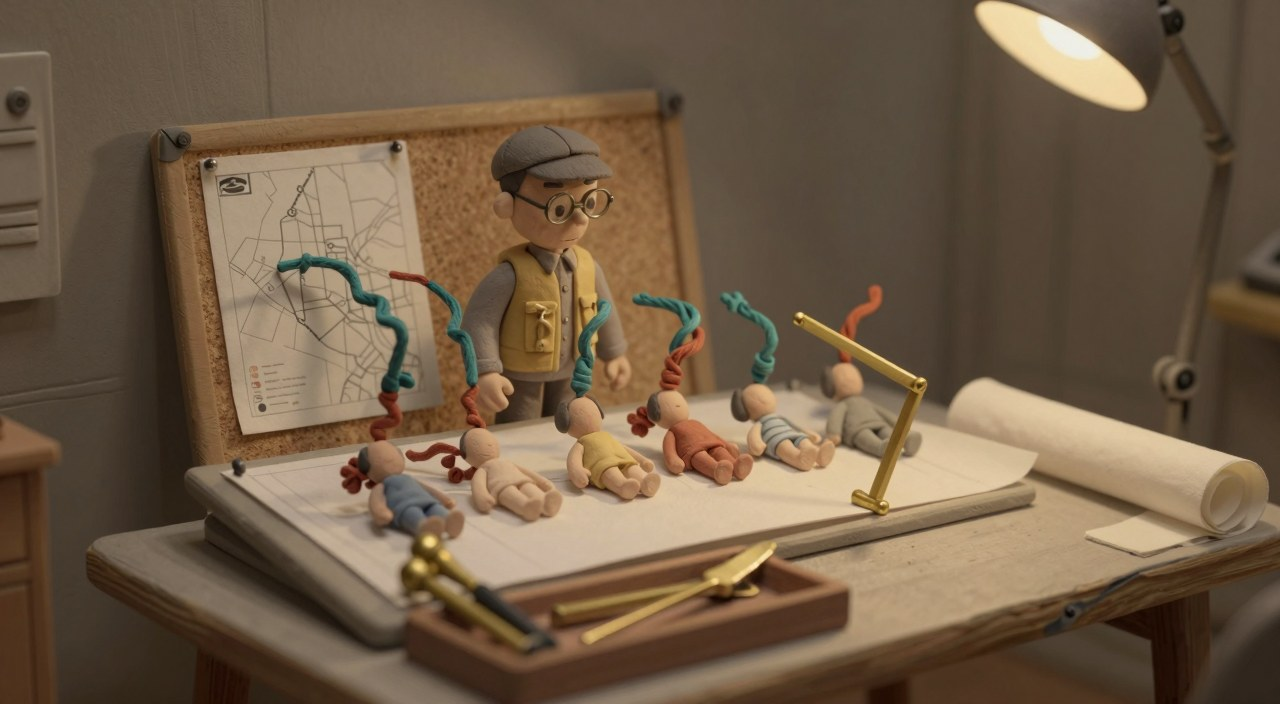
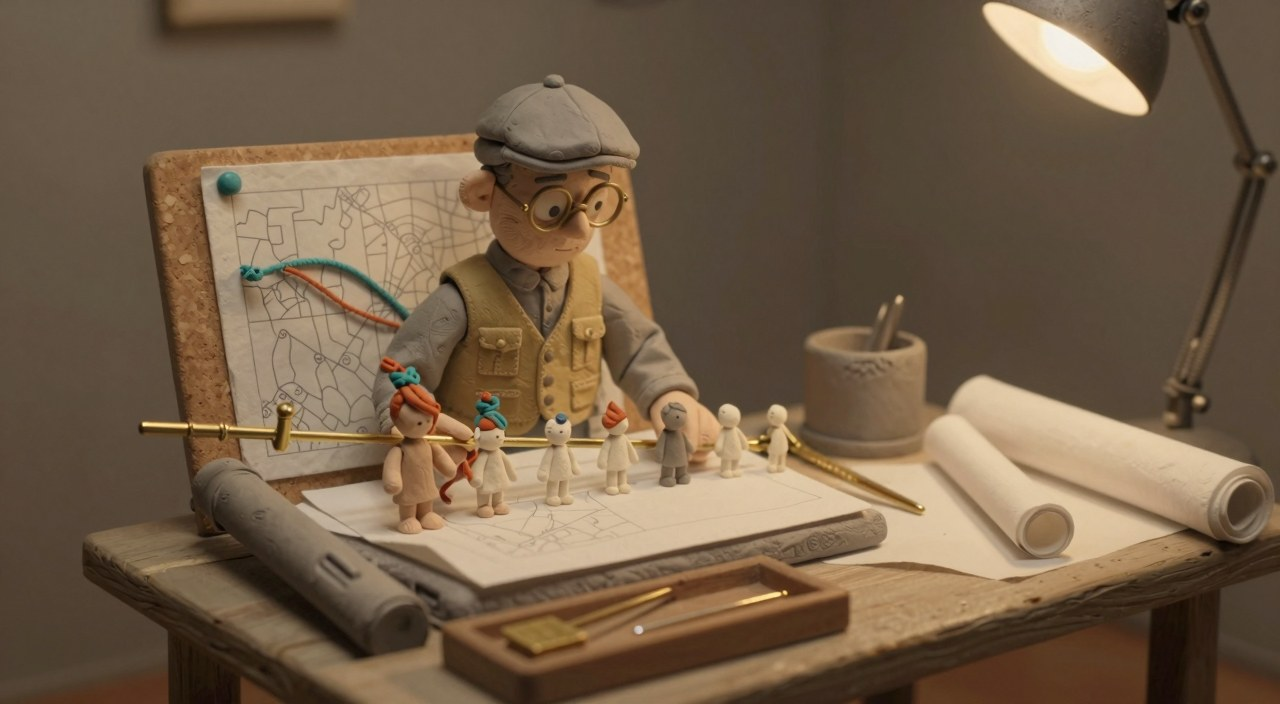
Tutorial: open on the claim and the assumptions; new still for section 05
Hero and section 01 now lead with the practitioner's choice: the same
survival data supports two claims (one hazard ratio, or survival
differences over time) and each carries its own assumptions. Section 05
swaps in the frame where the surveyor stands behind the table with one
rule laid along a row of patients.

Claude-Session: https://claude.ai/code/session_01A616zUAA53FNpEE2yGYwA5

diff --git a/docs/tutorial/index.html b/docs/tutorial/index.html
@@ -3,7 +3,7 @@
 <head>
   <meta charset="utf-8">
   <meta name="viewport" content="width=device-width, initial-scale=1">
-  <title>Two tools, one question · Cox, CAST and the choice between them</title>
+  <title>Same data, two tools · Cox, CAST and the choice between them</title>
   <meta name="description" content="A practitioner’s guide to choosing between Cox proportional hazards and CAST: when one hazard ratio is enough, when the effect changes over time or across people, and why the comparison has to be causal first.">
   <meta name="theme-color" content="#ffffff">
   <link rel="stylesheet" href="style.css">
@@ -24,8 +24,8 @@
   <section class="hero reading-wide" aria-labelledby="title">
     <div class="hero-copy">
       <div class="hero-heading"><p class="opening-thesis">A practitioner’s choice</p>
-      <h1 id="title">Two tools.<br><em>One question.</em></h1></div>
-      <div class="hero-opening"><p class="dek">Cox proportional hazards gives one number. CAST gives a curve. Which one fits depends on three things you can check.</p>
+      <h1 id="title">Same data.<br><em>Two tools.</em></h1></div>
+      <div class="hero-opening"><p class="dek">Cox proportional hazards and CAST both run on the same survival data. Which one you reach for depends on what you want to say and what you are willing to assume.</p>
       <a class="text-link" href="#two-tools">Start <span aria-hidden="true">↓</span></a></div>
     </div>
     <section class="reader-entry" id="choose-path" aria-labelledby="reader-heading">
@@ -63,8 +63,9 @@
 
   <section class="reading-wide section" id="two-tools">
     <div class="section-lead"><p class="eyebrow">01 / The choice</p>
-      <h2>Two tools on the bench.</h2>
-      <p>Two trails on a map stand for survival under treatment and under control. The dividers hold one fixed gap. On the log(−log S) scale, proportional hazards is exactly that: a constant gap between the two curves, which is the check in section 02. The French curve follows whatever shape the gap takes: CAST’s trajectory of survival differences over time.</p>
+      <h2>The claim picks the tool.</h2>
+      <p>Suppose you want to say “treatment cut the event rate by 30 percent.” That is one number for the whole follow-up, and Cox gives it cheaply, provided the hazards stay in a constant ratio and one effect fits everyone. Suppose instead you want to say “16 more people in 100 were alive at three years, and the gain was gone by nine.” That is a curve, and CAST gives it, provided you have measured the confounders and will fit models for treatment, censoring and survival. The data can be the same. The claim and the assumptions are not.</p>
+      <p>On the surveyor’s bench, two trails on a map stand for survival under treatment and under control. The dividers hold one fixed gap: on the log(−log S) scale, proportional hazards is exactly that constant gap (the check in section 02). The French curve follows whatever shape the gap takes: CAST’s trajectory of survival differences over time.</p>
     </div>
     <figure class="notebook-figure still-figure"><a href="assets/art/methods/two-tools-poster.jpg" target="_blank" rel="noopener"><img src="assets/art/methods/two-tools-poster.jpg" width="1280" height="720" loading="eager" fetchpriority="high" alt="A clay surveyor in a flat cap and round glasses holds brass dividers over a map pinned to a corkboard, where a teal and a terracotta yarn trail run side by side and then cross; a grey French curve waits in a wooden tray."></a><figcaption>Where the trails separate steadily, the dividers fit. Where they cross, no single setting touches both.</figcaption></figure>
     <div class="section-lead">
@@ -184,7 +185,7 @@
       <h2>How does benefit vary across people?</h2>
       <p>One hazard ratio is one number for everyone, and the cohort average can obscure differences between groups. A dose that helps one group may help another less, and those dose–response curves can change over time.</p>
     </div>
-    <figure class="notebook-figure still-figure"><a href="assets/art/methods/one-ratio-many-people.jpg" target="_blank" rel="noopener"><img src="assets/art/methods/one-ratio-many-people.jpg" width="1280" height="704" loading="lazy" alt="The surveyor behind a drafting table on which six small clay patients lie in a row, each with its own pair of teal and terracotta yarn trails rising above it in a different shape, while one brass divider stands open at a single fixed angle."></a><figcaption>Six patients, six shapes of trail. The dividers are open at one setting for all of them.</figcaption></figure>
+    <figure class="notebook-figure still-figure"><a href="assets/art/methods/one-ratio-many-people.jpg" target="_blank" rel="noopener"><img src="assets/art/methods/one-ratio-many-people.jpg" width="1280" height="704" loading="lazy" alt="The surveyor stands behind a drafting table and reaches toward a row of seven small clay patients standing on the paper; one brass rule lies along the row, and on the corkboard behind him a teal and a terracotta yarn trail cross on the map."></a><figcaption>Seven patients, one rule laid along the row. Whatever differs between them, the ratio is read once.</figcaption></figure>
     <div class="section-lead">
       <p>In this simulation the hazard ratio is the same for everyone, so survival benefit differs across profiles only through baseline risk. In real data a causal survival forest estimates profile-specific differences directly, where a Cox model needs interaction terms chosen in advance.</p>
     </div>

diff --git a/tutorial/index.html b/tutorial/index.html
@@ -3,7 +3,7 @@
 <head>
   <meta charset="utf-8">
   <meta name="viewport" content="width=device-width, initial-scale=1">
-  <title>Two tools, one question · Cox, CAST and the choice between them</title>
+  <title>Same data, two tools · Cox, CAST and the choice between them</title>
   <meta name="description" content="A practitioner’s guide to choosing between Cox proportional hazards and CAST: when one hazard ratio is enough, when the effect changes over time or across people, and why the comparison has to be causal first.">
   <meta name="theme-color" content="#ffffff">
   <link rel="stylesheet" href="style.css">
@@ -24,8 +24,8 @@
   <section class="hero reading-wide" aria-labelledby="title">
     <div class="hero-copy">
       <div class="hero-heading"><p class="opening-thesis">A practitioner’s choice</p>
-      <h1 id="title">Two tools.<br><em>One question.</em></h1></div>
-      <div class="hero-opening"><p class="dek">Cox proportional hazards gives one number. CAST gives a curve. Which one fits depends on three things you can check.</p>
+      <h1 id="title">Same data.<br><em>Two tools.</em></h1></div>
+      <div class="hero-opening"><p class="dek">Cox proportional hazards and CAST both run on the same survival data. Which one you reach for depends on what you want to say and what you are willing to assume.</p>
       <a class="text-link" href="#two-tools">Start <span aria-hidden="true">↓</span></a></div>
     </div>
     <section class="reader-entry" id="choose-path" aria-labelledby="reader-heading">
@@ -63,8 +63,9 @@
 
   <section class="reading-wide section" id="two-tools">
     <div class="section-lead"><p class="eyebrow">01 / The choice</p>
-      <h2>Two tools on the bench.</h2>
-      <p>Two trails on a map stand for survival under treatment and under control. The dividers hold one fixed gap. On the log(−log S) scale, proportional hazards is exactly that: a constant gap between the two curves, which is the check in section 02. The French curve follows whatever shape the gap takes: CAST’s trajectory of survival differences over time.</p>
+      <h2>The claim picks the tool.</h2>
+      <p>Suppose you want to say “treatment cut the event rate by 30 percent.” That is one number for the whole follow-up, and Cox gives it cheaply, provided the hazards stay in a constant ratio and one effect fits everyone. Suppose instead you want to say “16 more people in 100 were alive at three years, and the gain was gone by nine.” That is a curve, and CAST gives it, provided you have measured the confounders and will fit models for treatment, censoring and survival. The data can be the same. The claim and the assumptions are not.</p>
+      <p>On the surveyor’s bench, two trails on a map stand for survival under treatment and under control. The dividers hold one fixed gap: on the log(−log S) scale, proportional hazards is exactly that constant gap (the check in section 02). The French curve follows whatever shape the gap takes: CAST’s trajectory of survival differences over time.</p>
     </div>
     <figure class="notebook-figure still-figure"><a href="assets/art/methods/two-tools-poster.jpg" target="_blank" rel="noopener"><img src="assets/art/methods/two-tools-poster.jpg" width="1280" height="720" loading="eager" fetchpriority="high" alt="A clay surveyor in a flat cap and round glasses holds brass dividers over a map pinned to a corkboard, where a teal and a terracotta yarn trail run side by side and then cross; a grey French curve waits in a wooden tray."></a><figcaption>Where the trails separate steadily, the dividers fit. Where they cross, no single setting touches both.</figcaption></figure>
     <div class="section-lead">
@@ -184,7 +185,7 @@
       <h2>How does benefit vary across people?</h2>
       <p>One hazard ratio is one number for everyone, and the cohort average can obscure differences between groups. A dose that helps one group may help another less, and those dose–response curves can change over time.</p>
     </div>
-    <figure class="notebook-figure still-figure"><a href="assets/art/methods/one-ratio-many-people.jpg" target="_blank" rel="noopener"><img src="assets/art/methods/one-ratio-many-people.jpg" width="1280" height="704" loading="lazy" alt="The surveyor behind a drafting table on which six small clay patients lie in a row, each with its own pair of teal and terracotta yarn trails rising above it in a different shape, while one brass divider stands open at a single fixed angle."></a><figcaption>Six patients, six shapes of trail. The dividers are open at one setting for all of them.</figcaption></figure>
+    <figure class="notebook-figure still-figure"><a href="assets/art/methods/one-ratio-many-people.jpg" target="_blank" rel="noopener"><img src="assets/art/methods/one-ratio-many-people.jpg" width="1280" height="704" loading="lazy" alt="The surveyor stands behind a drafting table and reaches toward a row of seven small clay patients standing on the paper; one brass rule lies along the row, and on the corkboard behind him a teal and a terracotta yarn trail cross on the map."></a><figcaption>Seven patients, one rule laid along the row. Whatever differs between them, the ratio is read once.</figcaption></figure>
     <div class="section-lead">
       <p>In this simulation the hazard ratio is the same for everyone, so survival benefit differs across profiles only through baseline risk. In real data a causal survival forest estimates profile-specific differences directly, where a Cox model needs interaction terms chosen in advance.</p>
     </div>
